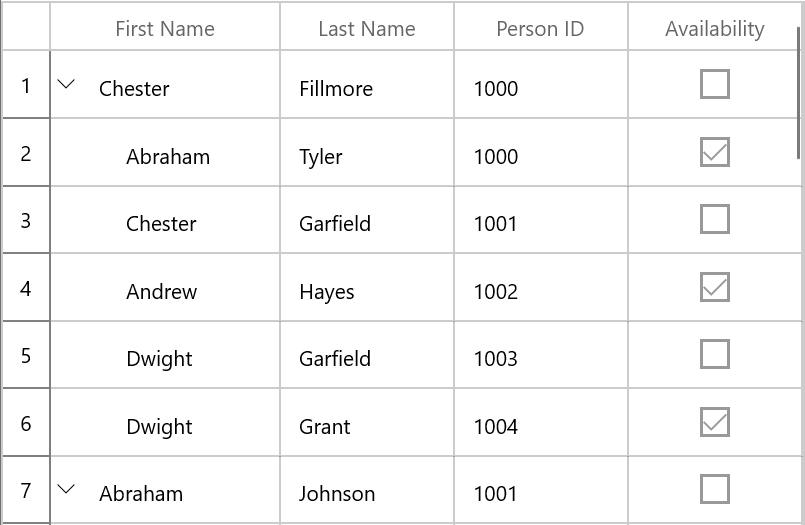
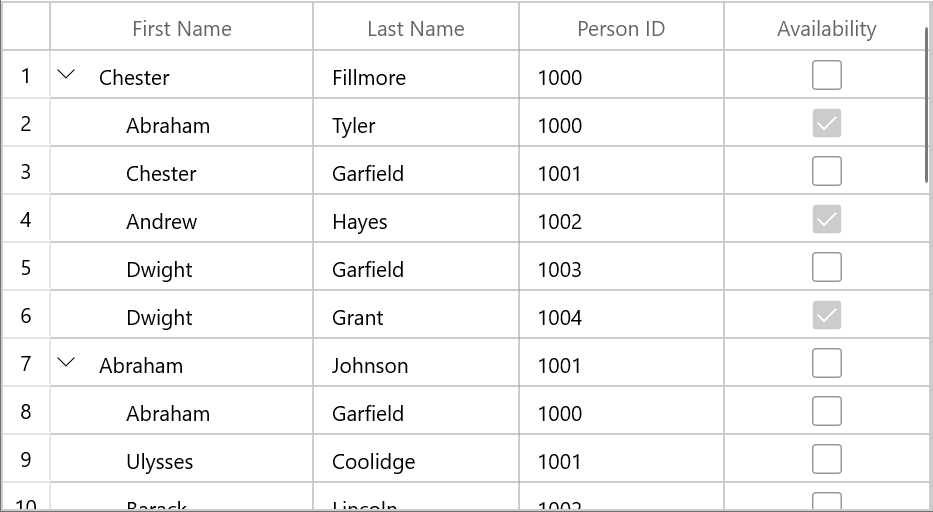
Review feedbacks addressed

Changed region(s): [[0.0, 0.0, 1.0, 1.0]]

diff --git a/winui/TreeGrid/Rows.md b/winui/TreeGrid/Rows.md
@@ -80,7 +80,7 @@ You can display the row index value in row header by customizing the `Tr
 {% highlight xaml %}
 <Style TargetType="syncfusion:TreeGridRowHeaderCell">
     <Setter Property="Background" Value="Transparent" />
-    <Setter Property="BorderBrush" Value="Gray" />
+    <Setter Property="BorderBrush" Value="#FFE5E5E5" />
     <Setter Property="BorderThickness" Value="0,0,1,1" />
     <Setter Property="Padding" Value="0" />
     <Setter Property="IsTabStop" Value="False" />
@@ -88,16 +88,16 @@ You can display the row index value in row header by customizing the `Tr
         <Setter.Value>
             <ControlTemplate TargetType="syncfusion:TreeGridRowHeaderCell">
                 <Border x:Name="PART_RowHeaderCellBorder"
-                    Background="{TemplateBinding Background}"
-                    BorderBrush="{TemplateBinding BorderBrush}"
-                    BorderThickness="{TemplateBinding BorderThickness}">
+            Background="{TemplateBinding Background}"
+            BorderBrush="{TemplateBinding BorderBrush}"
+            BorderThickness="{TemplateBinding BorderThickness}">
                     <Grid>
                         <!--RowIndex is displayed here -->
                         <TextBlock HorizontalAlignment="Center"
-                                VerticalAlignment="Center"
-                                Text="{Binding RowIndex,
-                                                  RelativeSource={RelativeSource TemplatedParent}}"
-                                TextAlignment="Center" />
+                        VerticalAlignment="Center"
+                        Text="{Binding RowIndex,
+                                          RelativeSource={RelativeSource TemplatedParent}}"
+                        TextAlignment="Center" />
                     </Grid>
                 </Border>
             </ControlTemplate>
